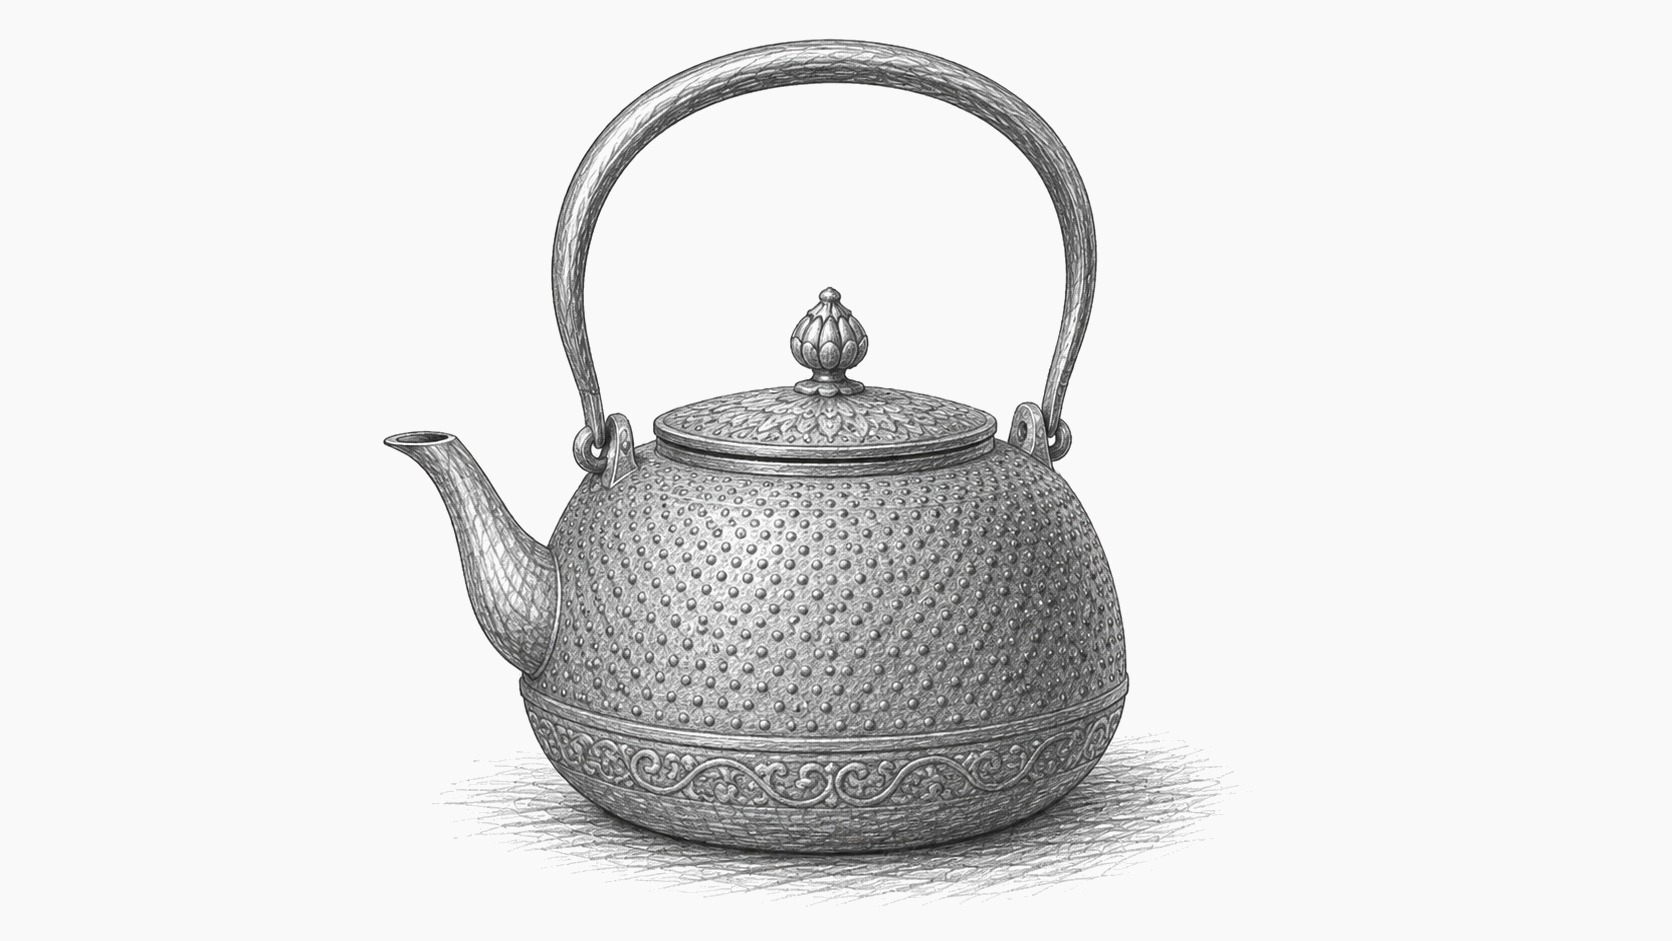
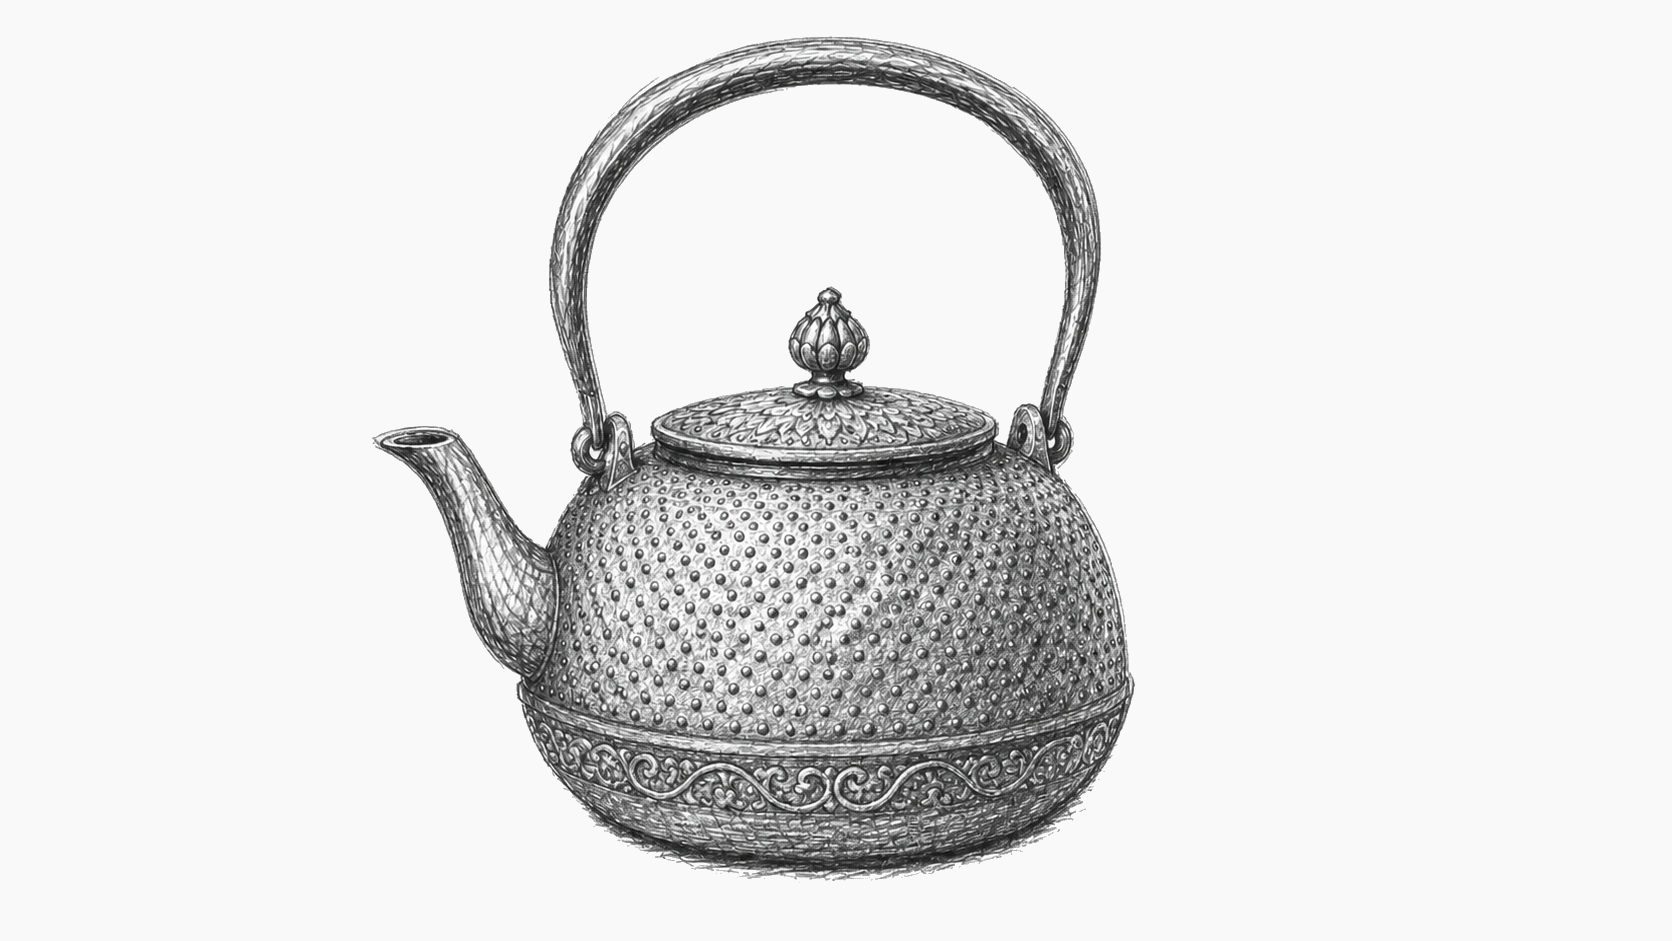
feat: refine tea categories and collection

Changed region(s): [[0.2177, 0.0308, 0.7464, 0.9554]]

diff --git a/.superpowers/brainstorm/3781036-1785495308/content/visual-style.html b/.superpowers/brainstorm/3781036-1785495308/content/visual-style.html
@@ -1,0 +1,42 @@
+<h2>How should the tetsubin post look?</h2>
+<p class="subtitle">Choose the balance between historical clarity and the tactile pleasure of the objects. The final post will use properly credited, permission-safe images; these source-page photographs are only standing in for the layout.</p>
+
+<div class="cards">
+  <div class="card" data-choice="a" onclick="toggleSelect(this)">
+    <div class="card-image" style="padding:14px;background:#eee8dd">
+      <img src="https://hojotea.com/img/seikodo_head.jpg" alt="Tetsubin on a plain background" style="width:100%;height:240px;object-fit:contain;background:#faf8f2">
+    </div>
+    <div class="card-body">
+      <div class="label">A · Museum catalogue</div>
+      <h3>Objects first</h3>
+      <p>Large, quiet kettle portraits with detailed captions. Elegant and scholarly, but the making traditions may feel abstract.</p>
+    </div>
+  </div>
+
+  <div class="card" data-choice="b" onclick="toggleSelect(this)">
+    <div class="card-image" style="display:grid;grid-template-columns:1fr 1fr;gap:5px;padding:5px;background:#2d2925">
+      <img src="https://hojotea.com/img/kunzan_pho02.jpg" alt="Tetsubin artisan" style="width:100%;height:240px;object-fit:cover">
+      <img src="https://hojotea.com/img/kunzan_pho03.jpg" alt="Tetsubin making detail" style="width:100%;height:240px;object-fit:cover">
+    </div>
+    <div class="card-body">
+      <div class="label">B · Workshop documentary</div>
+      <h3>Hands and process</h3>
+      <p>Moulds, casting, chiselling, handles, and the people doing the work. Lively and intimate, but weaker for comparing finished regional styles.</p>
+    </div>
+  </div>
+
+  <div class="card" data-choice="c" onclick="toggleSelect(this)">
+    <div class="card-image" style="display:grid;grid-template-columns:1.45fr 1fr;grid-template-rows:118px 118px;gap:5px;padding:5px;background:#f2eee7">
+      <img src="https://hojotea.com/img/suzuki_pho02.jpg" alt="Finished Nanbu tetsubin" style="grid-row:1/3;width:100%;height:241px;object-fit:cover">
+      <img src="https://hojotea.com/img/kunzan_pho02.jpg" alt="Tetsubin maker" style="width:100%;height:118px;object-fit:cover">
+      <img src="https://hojotea.com/img/seikodo_pho03.jpg" alt="Yamagata tetsubin detail" style="width:100%;height:118px;object-fit:cover">
+    </div>
+    <div class="card-body">
+      <div class="label">C · Recommended</div>
+      <h3>Regional visual essay</h3>
+      <p>Each tradition gets a finished kettle, a making image, and a close detail. A small map and comparison plate make the differences legible at a glance.</p>
+    </div>
+  </div>
+</div>
+
+<p class="subtitle" style="margin-top:24px">Click a card, then tell me in the chat if you want any adjustment—for example, “C, but more workshop photos.”</p>

diff --git a/src/content.config.ts b/src/content.config.ts
@@ -40,6 +40,7 @@ const tea = defineCollection({
 				.transform((val) => (Array.isArray(val) ? val : [val])),
 			heroImage: image().optional(),
 			heroImageMaxHeight: z.number().positive().optional(),
+			showHero: z.boolean().optional(),
 		}),
 });
 

diff --git a/.superpowers/brainstorm/3781036-1785495308/content/waiting.html b/.superpowers/brainstorm/3781036-1785495308/content/waiting.html
@@ -1,0 +1,3 @@
+<div style="display:flex;align-items:center;justify-content:center;min-height:60vh">
+  <p class="subtitle">Visual direction selected: regional visual essay. Continuing in chat…</p>
+</div>

diff --git a/docs/superpowers/plans/2026-08-04-tetsubin-part-2-style-alignment.md b/docs/superpowers/plans/2026-08-04-tetsubin-part-2-style-alignment.md
@@ -1,0 +1,106 @@
+# Tetsubin Part 2 Style Alignment Implementation Plan
+
+> **For agentic workers:** REQUIRED SUB-SKILL: Use superpowers:subagent-driven-development (recommended) or superpowers:executing-plans to implement this plan task-by-task. Steps use checkbox (`- [ ]`) syntax for tracking.
+
+**Goal:** Rewrite Part 2 of the tetsubin series so it is simple, engaging, and stylistically continuous with Part 1.
+
+**Architecture:** This is a single-file editorial change. Rebuild the existing Markdown article around a narrative progression, retain only the evidence and media that support that progression, and verify it through text checks and the existing Astro build.
+
+**Tech Stack:** Astro content collections, Markdown, inline HTML, npm.
+
+## Global Constraints
+
+- Do not introduce new historical claims or dependencies.
+- Preserve accurate source links, image credits, licences, accessible image markup, and previous/next navigation.
+- Use Part 1's `##` heading hierarchy, first-person explanatory voice, readable paragraphs, and restrained use of evidence notes.
+- Leave unused image and diagram assets in place.
+
+---
+
+### Task 1: Rebuild the Morioka Article
+
+**Files:**
+- Modify: `src/content/tea/tetsubin-history-2-morioka.md:1-300`
+- Reference: `src/content/tea/tetsubin-history-1-birth-of-the-iron-kettle.md`
+- Verify: `package.json`
+
+**Interfaces:**
+- Consumes: Astro's existing Markdown/frontmatter format and the article's current local media paths.
+- Produces: One renderable Part 2 article with the same URL and frontmatter contract.
+
+- [ ] **Step 1: Record the current article structure**
+
+Run:
+
+```bash
+rg -n '^(##|###)|<div class="info-box">|^\|' src/content/tea/tetsubin-history-2-morioka.md
+```
+
+Expected: dossier-style `###` headings, repeated information boxes, and multiple tables appear in the baseline.
+
+- [ ] **Step 2: Replace the body with a narrative structure**
+
+Keep the existing frontmatter and rebuild the body in this order:
+
+1. A short series note explaining the source standard once.
+2. `## Morioka and the Problem of an Old Name` — connect Part 1's distinction between old casting and the younger tetsubin to Morioka's 1625/1641 date conflict and circa-1750 tradition.
+3. `## How Morioka Makes a Kettle` — explain the mould, core, casting, oxide treatment, lacquer, handle, and lid in plain language; retain one useful process illustration.
+4. `## Suzuki Morihisa: The Domain Lineage` — tell the hereditary workshop story, correct the honorific claim carefully, and describe its present visual range and `盛久` mark without a matrix.
+5. `## Kunzan: A Branch Becomes Its Own Workshop` — emphasize the 1937 founding, Suzuki apprenticeship, in-house work, range of forms, and uncertain mark evidence.
+6. `## Iwachu: Craft at Industrial Scale` — explain the conflicting foundation dates, separate traditional kettles from enamelled teapots, and describe the current `岩鋳`/`IWACHU` marks without using them as dating evidence.
+7. `## Kamasada: One Maker, One Kettle` — explain the Miya family roots, wartime interruption, 1954 rebuilding, integrated handwork, modern design, and mark limits.
+8. `## What the Four Workshops Teach Us` — compare the makers in prose, give a short practical identification sequence, and explain why no single texture or mark proves attribution.
+9. `## Sources and Image Credits` — retain a compact source list, image/licence statement, and navigation links.
+
+Remove repeated open-evidence boxes, evidence ceilings, duplicated warning language, per-maker mark tables, and comparison tables. Keep uncertainty beside the fact it qualifies.
+
+- [ ] **Step 3: Check style and structure**
+
+Run:
+
+```bash
+rg -n '^###|<div class="info-box">|Evidence ceiling|^\|' src/content/tea/tetsubin-history-2-morioka.md
+rg -n '^## ' src/content/tea/tetsubin-history-2-morioka.md
+```
+
+Expected: the first command finds no dossier-only structure; the second shows the planned `##` narrative sections.
+
+- [ ] **Step 4: Check local media references**
+
+Run:
+
+```bash
+for path in $(rg -o 'src="/[^"]+' src/content/tea/tetsubin-history-2-morioka.md | cut -d'"' -f2); do test -f "public$path" || exit 1; done
+```
+
+Expected: exit status 0 with no missing local media.
+
+- [ ] **Step 5: Build the site**
+
+Run:
+
+```bash
+npm run build
+```
+
+Expected: Astro completes successfully and generates the Part 2 route.
+
+- [ ] **Step 6: Review the final diff and commit**
+
+Run:
+
+```bash
+git diff --check
+git diff --stat
+git diff -- src/content/tea/tetsubin-history-2-morioka.md
+git status --short
+```
+
+Expected: no whitespace errors; only the intended article rewrite and already-known unrelated untracked files are present.
+
+Commit only the article:
+
+```bash
+git add src/content/tea/tetsubin-history-2-morioka.md
+git commit -m "edit(tea): align tetsubin part 2 with blog style"
+```

diff --git a/docs/superpowers/plans/2026-07-17-agent-research-prompt-post.md b/docs/superpowers/plans/2026-07-17-agent-research-prompt-post.md
@@ -1,0 +1,54 @@
+# Agent Research Prompt Post Implementation Plan
+
+> **For agentic workers:** REQUIRED SUB-SKILL: Use superpowers:subagent-driven-development (recommended) or superpowers:executing-plans to implement this plan task-by-task. Steps use checkbox (`- [ ]`) syntax for tracking.
+
+**Goal:** Publish a source-linked `god-is-dead` post about research-agent orchestration.
+
+**Architecture:** Add one Markdown content entry using the existing `god-is-dead` collection. The post is self-contained and needs no site code or assets; Astro validates frontmatter and renders it through the existing collection route.
+
+**Tech Stack:** Astro content collections, Markdown, npm build.
+
+## Global Constraints
+
+- Create only one post; add no components, styles, assets, or dependencies.
+- Attribute the proof claim to the published prompt/document.
+- Say "up to 64 agents" and "at least eight hours"; do not repeat the supplied one-hour claim.
+- Use direct first-person prose with light sectioning and a source link to the full prompt.
+
+---
+
+### Task 1: Draft the research-agent post
+
+**Files:**
+- Create: `src/content/god-is-dead/prompt-engineering-is-not-dead.md`
+- Test: `npm run build`
+
+**Interfaces:**
+- Consumes: `godIsDead` schema in `src/content.config.ts`, which requires `title`, `description`, `pubDate`, and `category`.
+- Produces: A Markdown entry available at `/god-is-dead/prompt-engineering-is-not-dead/`.
+
+- [x] **Step 1: Add the frontmatter and article**
+
+```markdown
+---
+title: "Prompt Engineering Is Not Dead"
+pubDate: "2026-07-17"
+category: "AI"
+description: "For difficult agentic work, prompt engineering is process design."
+---
+```
+
+Write the article beneath this frontmatter. Open personally, use a short practical list for the orchestration lessons, close by arguing that hard prompting is process design, and link to the supplied OpenAI PDF.
+
+- [x] **Step 2: Build the site**
+
+Run: `npm run build`
+
+Expected: exit code 0 and Astro reports the production build completed.
+
+- [ ] **Step 3: Commit**
+
+```bash
+git add src/content/god-is-dead/prompt-engineering-is-not-dead.md docs/superpowers/plans/2026-07-17-agent-research-prompt-post.md
+git commit -m "feat: add agent research prompt post"
+```

diff --git a/docs/superpowers/specs/2026-07-17-agent-research-prompt-design.md b/docs/superpowers/specs/2026-07-17-agent-research-prompt-design.md
@@ -1,0 +1,33 @@
+# Agent Research Prompt Post Design
+
+## Purpose
+
+Publish a `god-is-dead` post adapted from the supplied LinkedIn draft. It should sound personal and reflective while giving readers a concrete account of what the published research-manager prompt requires.
+
+## Scope
+
+- Create one Markdown post in `src/content/god-is-dead`.
+- Use the collection's existing frontmatter fields and no new components, styles, images, or dependencies.
+- Link to the published OpenAI prompt as the source.
+
+## Structure
+
+1. Open with the apparent result and why the prompt—not the mathematics—is the interesting part for ordinary AI practitioners.
+2. Explain that this is not ordinary prompt formatting but an instruction to manage a research process.
+3. Extract the operational lessons: diverse approaches, delayed convergence, tracking approach families, blocking theorem-strength gaps, delayed cross-pollination, adversarial review, concrete deliverables, and explicit completion criteria.
+4. End with the argument that hard agentic prompting is process design: deciding how work explores, challenges itself, shares information, and stops.
+5. Add a compact source link to the full prompt.
+
+## Accuracy
+
+- Attribute the proof claim to the published prompt/document rather than independently declaring the conjecture solved.
+- State that the prompt allows up to 64 agents.
+- Correct the supplied "one hour" claim: the prompt requires at least eight hours before returning or giving up.
+
+## Voice
+
+Use the site's direct, first-person, slightly skeptical style. Keep headings light and prose-led; use a short list only where it improves the extraction of practical lessons.
+
+## Verification
+
+Run the production build after adding the Markdown file.

diff --git a/src/content/tea/factory-1-70s-xi-shi-76ml.md b/src/content/tea/factory-1-70s-xi-shi-76ml.md
@@ -6,7 +6,8 @@ category:
   - "Teapots"
   - "My Teaware Collection"
 description: "A mid-1970s Factory 1 Xi Shi teapot in hongni, with a 76 ml capacity."
-heroImage: "../../assets/tea/factory-1-70s-xi-shi-76ml/intro.jpg"
+heroImage: "../../assets/tea/factory-1-70s-xi-shi-76ml/intro.png"
+showHero: true
 ---
 
 <p class="collection-details">
@@ -23,11 +24,15 @@ One of the legendary “Five Shapes” that every serious Factory 1 or Yixing co
 
 I love its simple yet elegant form. I also think the silver-rim repair only adds to its character.
 
-If you look closely, there is also a seal under the lid. I have no idea what it means 🫣. I assumed it simply says 
-“Xi Shi,” since writing shape names on lids was common practice during Factory 1’s early period. But people who could 
-read it say that it does not look like it says "Xi Shi", and that they think that it is the author's mark. It was not a
-common practice to put personal marks during Cultural Revolution, however. Thus, is it is indeed a maker's mark, it is
-is very possible that this teapot is from late 70s Green Label period.
+If you look closely, there is also a seal under the lid. I have no idea what it means 🫣.
+
+I initially assumed it simply says “Xi Shi,” since writing shape names on lids was common practice during Factory 1’s
+early period. But people who can actually read it say it does not look like “Xi Shi” and think it might instead be the
+maker’s mark.
+
+Putting personal marks on teapots was not common practice during the Cultural Revolution, however. So, if it is indeed
+a maker’s mark, there is a good chance this teapot is actually from the late-70s Green Label period.
+
 
 <div class="collection-photos">
 
